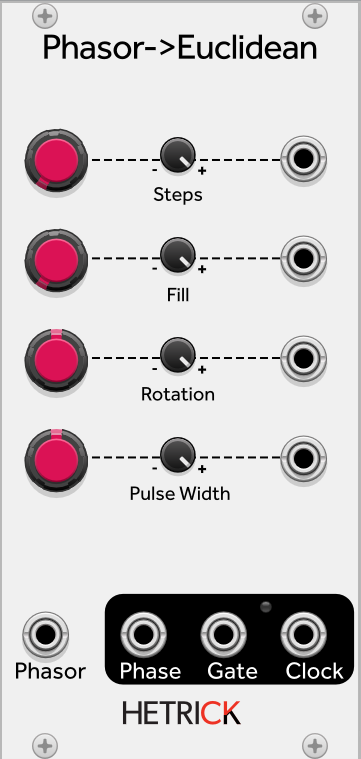
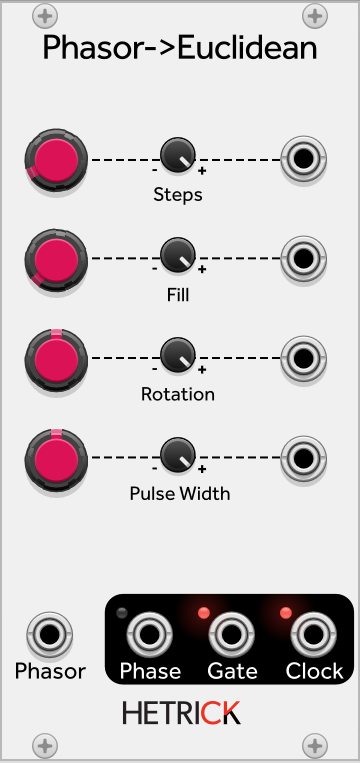
Better visual feedback on Phasor to Euclidean

diff --git a/src/PhasorEuclidean.cpp b/src/PhasorEuclidean.cpp
@@ -35,7 +35,9 @@ struct PhasorEuclidean : HCVModule
 	};
     enum LightIds
     {
+        PHASOR_LIGHT,
         GATE_LIGHT,
+        CLOCK_LIGHT,
         NUM_LIGHTS
 	};
 
@@ -120,7 +122,9 @@ void PhasorEuclidean::process(const ProcessArgs &args)
         outputs[CLOCK_OUTPUT].setVoltage(euclidean[i].getClockOutput(), i);
     }
 
-    //lights[GATE_LIGHT].set
+    lights[PHASOR_LIGHT].setBrightness(outputs[PHASOR_OUTPUT].getVoltage() * 0.1f);
+    lights[GATE_LIGHT].setBrightness(outputs[GATE_OUTPUT].getVoltage() * 0.1f);
+    lights[CLOCK_LIGHT].setBrightness(outputs[CLOCK_OUTPUT].getVoltage() * 0.1f);
 }
 
 
@@ -147,16 +151,25 @@ PhasorEuclideanWidget::PhasorEuclideanWidget(PhasorEuclidean *module)
 
 
     const float jackY = 305.0f;
+    float xSpacing = 41.0f;
+
+    float jackX2 = 63.0;
+    float jackX3 = jackX2 + xSpacing;
+    float jackX4 = jackX3 + xSpacing;
 	//////INPUTS//////
-    createInputPort(11.0f, jackY, PhasorEuclidean::PHASOR_INPUT);
+    createInputPort(13.0f, jackY, PhasorEuclidean::PHASOR_INPUT);
 
 	//////OUTPUTS//////
-    createOutputPort(60.0f, jackY, PhasorEuclidean::PHASOR_OUTPUT);
-    createOutputPort(100.0f, jackY, PhasorEuclidean::GATE_OUTPUT);
-    createOutputPort(140.0f, jackY, PhasorEuclidean::CLOCK_OUTPUT);
+    createOutputPort(jackX2, jackY, PhasorEuclidean::PHASOR_OUTPUT);
+    createOutputPort(jackX3, jackY, PhasorEuclidean::GATE_OUTPUT);
+    createOutputPort(jackX4, jackY, PhasorEuclidean::CLOCK_OUTPUT);
 
-    createHCVRedLight(130.0, 300.0, PhasorEuclidean::GATE_LIGHT);
-    
+    const float lightOffsetX = -5.0f;
+    const float lightOffsetY = -2.0f;
+
+    createHCVRedLight(jackX2 + lightOffsetX, jackY + lightOffsetY, PhasorEuclidean::PHASOR_LIGHT);
+    createHCVRedLight(jackX3 + lightOffsetX, jackY + lightOffsetY, PhasorEuclidean::GATE_LIGHT);
+    createHCVRedLight(jackX4 + lightOffsetX, jackY + lightOffsetY, PhasorEuclidean::CLOCK_LIGHT);
 }
 
 Model *modelPhasorEuclidean = createModel<PhasorEuclidean, PhasorEuclideanWidget>("PhasorEuclidean");
